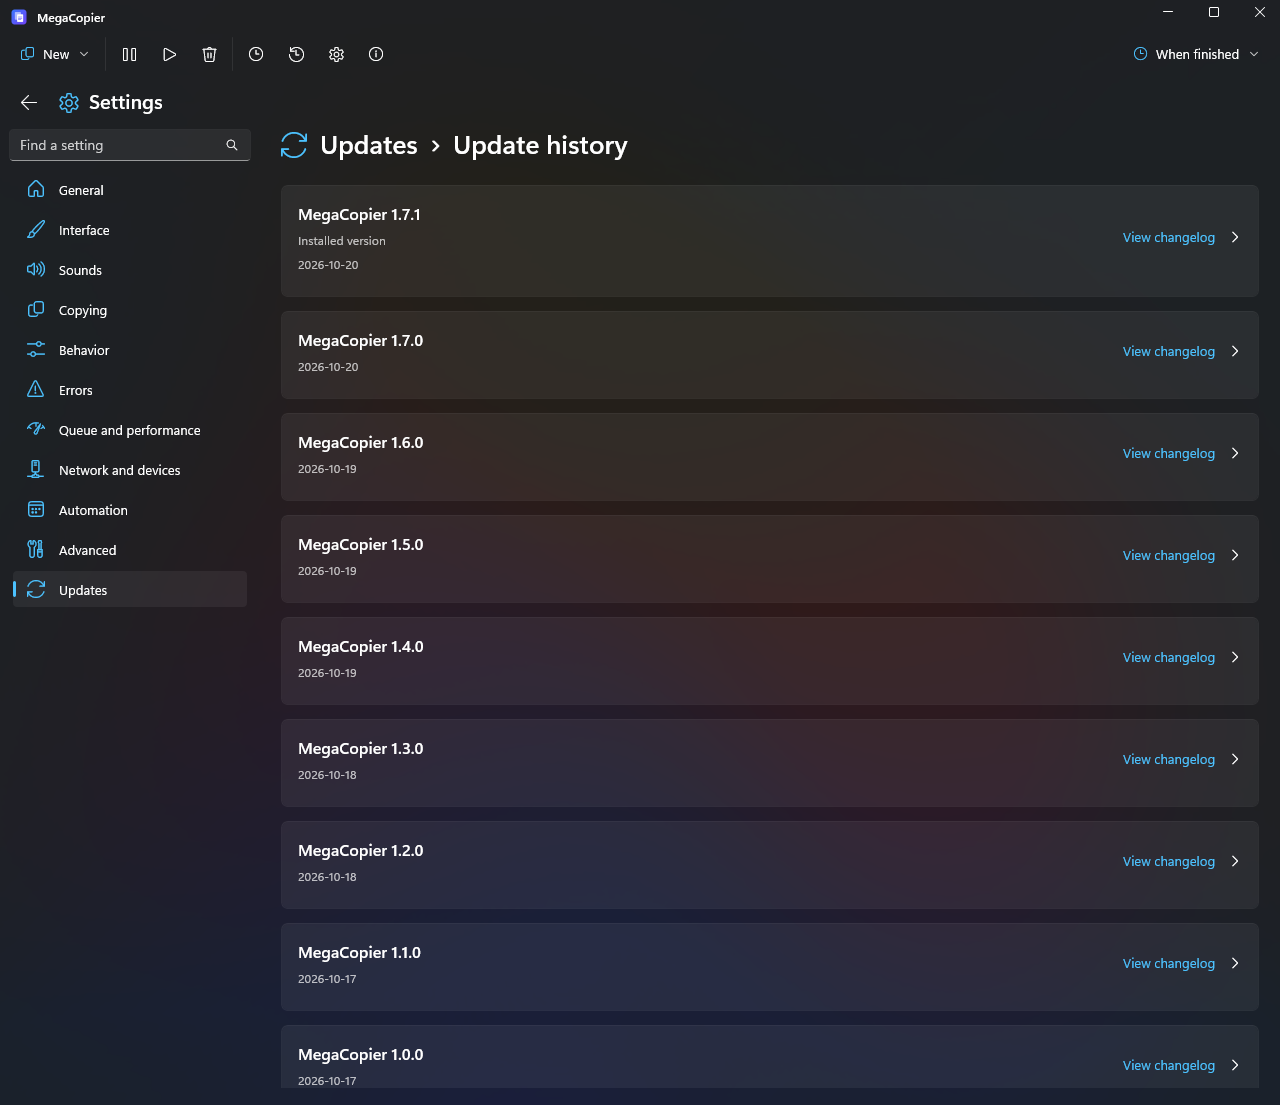
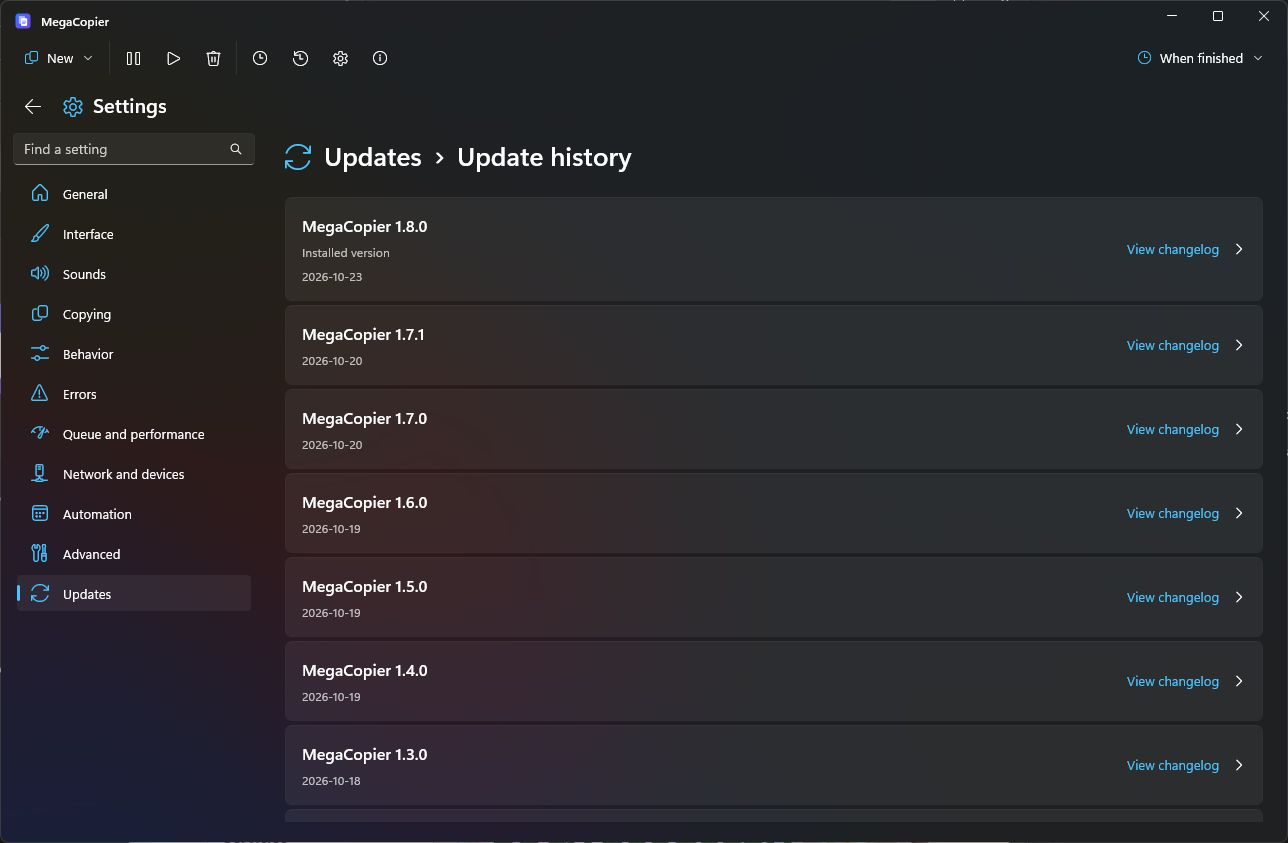
Actualiza portadas y capturas bilingües para la versión 1.8.0

diff --git a/README.md b/README.md
@@ -21,7 +21,7 @@ Replace File Explorer's copy and paste. If a transfer is interrupted by a power 
 
 ### Code signing policy
 
-Updates use the project's own ECDSA key. The application to **SignPath Foundation** was submitted on October 21, 2026; approval and Authenticode certificate access remain pending. Sponsorship is not claimed as granted. See the [code-signing policy](docs/Code-signing-policy.md) and [privacy policy](docs/Privacy.md).
+Updates use the project's own ECDSA key. **SignPath Foundation** did not approve the application at this time because broader public visibility is required. The EXE and installer remain without Authenticode; the update manifest is signed with the project’s ECDSA key. See the [code-signing policy](docs/Code-signing-policy.md) and [privacy policy](docs/Privacy.md).
 
 [Features](#all-features) · [Screenshots](#screenshots) · [User guide — Spanish](docs/Guia.md) · [Changelog](CHANGELOG.en.md) · [Español](README.es.md)
 
@@ -29,7 +29,15 @@ Updates use the project's own ECDSA key. The application to **SignPath Foundatio
 
 </div>
 
-> **Development status:** `main` includes [unreleased changes](CHANGELOG.en.md#unreleased). The download above is still the latest published version, **1.7.1**, and does not contain all development features described below. Updating this repository does not publish a new installer or release.
+
+## New in 1.8.0
+
+- Updates, full bilingual release notes and version history inside Settings, plus optional automatic downloads and installation.
+- Protected folders and files in use share one administrator recovery process; exFAT USB copying is fixed. NTFS, exFAT and FAT32 copy and overwrite checks passed.
+- Ctrl+drag duplicates folders within their current location without opening Start or delaying selection in Explorer.
+- Responsive option cards, consistent settings spacing, clearer paths and smooth navigation indicators. The installer offers English or Spanish.
+
+[Full changelog with English screenshots](CHANGELOG.en.md#180---2026-10-23) · [Spanish notes and screenshots](CHANGELOG.md#180---2026-10-23)
 
 ## Why MegaCopier
 
@@ -56,13 +64,13 @@ Everything is on the [latest release page](https://github.com/cbatista96/MegaCop
 | `SHA256SUMS.txt` | SHA-256 checksums for the downloaded files. |
 
 1. Run the installer on 64-bit Windows 11. It installs for your user in `%LOCALAPPDATA%\Programs\MegaCopier`, without administrator rights.
-2. Choose optional shortcuts, Explorer integration and Windows startup. In the development installer, desktop and Start menu shortcuts are off by default; the taskbar choice prepares a shortcut for you to pin through Windows.
-3. In the development installer, automatic update checking and error reporting are selected by default and can be deselected. Automatic downloading and installation are off. Silent updates preserve your preferences.
+2. Choose optional shortcuts, Explorer integration and Windows startup. In the installer, desktop and Start menu shortcuts are off by default; the taskbar choice prepares a shortcut for you to pin through Windows.
+3. In the installer, automatic update checking and error reporting are selected by default and can be deselected. Automatic downloading and installation are off. Silent updates preserve your preferences.
 
 Current public executables and installers are **not Authenticode-signed**. Windows may display SmartScreen warnings. Check the SHA-256 checksum against `SHA256SUMS.txt` and review the [signing status](docs/Code-signing-policy.md). A certificate does not guarantee that every SmartScreen warning will disappear immediately.
 
 ```powershell
-Get-FileHash .\MegaCopier-Setup-1.7.1.exe -Algorithm SHA256
+Get-FileHash .\MegaCopier-Setup-1.8.0.exe -Algorithm SHA256
 ```
 
 **Portable:** extract the ZIP and run `MegaCopier.exe`. Its `Data` folder holds settings and pending work. Portable mode does not install Explorer integration.
@@ -91,7 +99,7 @@ mcopy backup D:\Documents F:\Backups
 
 ## Updates and release notes
 
-In the development version, **Settings > Updates** provides one fixed-size action to check, download and install, with progress and cancellation. Highlights describe the available version, or the installed version when no newer version is known. Complete notes and images open inside the application.
+**Settings > Updates** provides one fixed-size action to check, download and install, with progress and cancellation. Highlights describe the available version, or the installed version when no newer version is known. Complete notes and images open inside the application.
 
 - Automatic checking runs every **48 hours** when enabled and catches up after reconnection if overdue. Connection changes do not cause continuous version checks.
 - Automatic downloading is optional and applies to versions discovered by automatic checks. A manual check offers Download.
@@ -107,14 +115,14 @@ In the development version, **Settings > Updates** provides one fixed-size actio
 These are separate features:
 
 - **Local transfer logs and reports** record transfer results and may contain paths. They are not uploaded automatically as crash reports.
-- **Optional crash reports** contain versions, language, theme, coarse activity and filtered traces. They exclude files, file names, paths and free-form exception messages. The development installer offers reporting selected by default; portable copies start with it off. Change this in **Settings > Advanced**.
+- **Optional crash reports** contain versions, language, theme, coarse activity and filtered traces. They exclude files, file names, paths and free-form exception messages. The installer offers reporting selected by default; portable copies start with it off. Change this in **Settings > Advanced**.
 - When automatic reporting is on, authorized reports are sent in the background. When off, an unexpected-exit dialog offers a preview, one-time sending or permission for future reports. Disabling reporting removes queued local reports, not reports already received.
 - Cloudflare processes the connection IP for abuse limiting; it is excluded from the report stored in the private GitHub repository. See the [privacy policy](docs/Privacy.md) for providers, retention and deletion limits.
 - **Security vulnerabilities are not automatically detected by crash reporting.** Use the private route in [SECURITY.md](SECURITY.md) for a suspected vulnerability; do not post secrets or sensitive exploitation details in public issues.
 
 ## Screenshots
 
-Fresh captures of the current application, in English, using local demonstration files. Each example preserves its illustrated theme, icon pack and progress bar style. File names and transfer figures are illustrative; these screenshots are not performance claims. Spanish captures are available in the Spanish overview. Illustrations in historical notes show the current development interface.
+Fresh captures of the current application, in English, using local demonstration files. Each example preserves its illustrated theme, icon pack and progress bar style. File names and transfer figures are illustrative; these screenshots are not performance claims. Spanish captures are available in the Spanish overview. Illustrations in historical notes show the current application interface.
 
 <table>
 <tr>
@@ -242,7 +250,7 @@ Fresh captures of the current application, in English, using local demonstration
 
 ### Recent additions
 
-Integrated updates, optional private reports and reorganized sound controls in the development version.
+Integrated updates, optional private reports and reorganized sound controls in version 1.8.0.
 
 <table><tr><td><img src="docs/capturas/en/actualizaciones.png" alt="Update center"></td><td><img src="docs/capturas/en/sonidos.png" alt="Sound controls"></td></tr></table>
 

diff --git a/README.es.md b/README.es.md
@@ -23,7 +23,7 @@ copias de seguridad y copia a servidores, nubes y móviles.
 
 ### Code signing policy
 
-La firma de actualizaciones usa una clave ECDSA propia. La firma Authenticode con SignPath Foundation se solicitó el 21 de octubre de 2026 y está pendiente de aprobación; no se anuncia todavía como concedida. Consulta la [política de firma](docs/Code-signing-policy.md) y la [política de privacidad](docs/Privacidad.md) ([English](docs/Privacy.md)).
+La firma de actualizaciones usa una clave ECDSA propia. SignPath Foundation no aprobó la solicitud en esta ocasión por falta de visibilidad pública. El EXE y el instalador siguen sin Authenticode; el manifiesto del actualizador sí tiene firma ECDSA. Consulta la [política de firma](docs/Code-signing-policy.md) y la [política de privacidad](docs/Privacidad.md) ([English](docs/Privacy.md)).
 
 [Características](#todas-las-características) ·
 [Capturas](#capturas) ·
@@ -39,7 +39,15 @@ La firma de actualizaciones usa una clave ECDSA propia. La firma Authenticode co
 
 ---
 
-> **Estado del código:** `main` incluye cambios todavía sin publicar como versión descargable. Consulta el [resumen y registro de desarrollo](CHANGELOG.md#sin-publicar) ([English](CHANGELOG.en.md#unreleased)). La descarga sigue correspondiendo a la última versión publicada.
+
+## Novedades de 1.8.0
+
+- Actualizaciones, registro completo bilingüe e historial dentro de Ajustes, con descarga e instalación automáticas opcionales.
+- Carpetas protegidas y archivos en uso comparten una recuperación con administrador; corregida la copia a USB exFAT. Se comprobaron copias y sobrescrituras en NTFS, exFAT y FAT32.
+- Ctrl+arrastrar duplica carpetas dentro de su ubicación sin abrir Inicio ni demorar la selección en el Explorador.
+- Tarjetas adaptables, espaciado uniforme, rutas más claras e indicadores fluidos. El instalador permite elegir español o inglés.
+
+[Registro completo con capturas en español](CHANGELOG.md#180---2026-10-23) · [English notes and screenshots](CHANGELOG.en.md#180---2026-10-23)
 
 ## Por qué MegaCopier
 
@@ -78,7 +86,7 @@ Todo está en la página de la **[última versión](https://github.com/cbatista9
 > suma con la de `SHA256SUMS.txt`:
 >
 > ```powershell
-> Get-FileHash .\MegaCopier-Setup-1.0.0.exe -Algorithm SHA256
+> Get-FileHash .\MegaCopier-Setup-1.8.0.exe -Algorithm SHA256
 > ```
 
 **Versión portátil:** descomprime el ZIP y ejecuta `MegaCopier.exe`. Guarda los ajustes en la carpeta `Data` de al lado y
@@ -100,7 +108,7 @@ ajustes e historial.
 
 ## Actualizaciones e informes
 
-La versión en desarrollo busca actualizaciones cada 48 horas cuando está habilitado. Descargar e instalar son opciones independientes desactivadas por defecto; las descargas respetan Wi-Fi, cable y redes de uso medido. Las novedades usan español para la interfaz española e inglés para las demás, incluidas versiones anteriores.
+MegaCopier busca actualizaciones cada 48 horas cuando está habilitado. Descargar e instalar son opciones independientes desactivadas por defecto; las descargas respetan Wi-Fi, cable y redes de uso medido. Las novedades usan español para la interfaz española e inglés para las demás, incluidas versiones anteriores.
 
 Los informes automáticos opcionales de cierres no son el registro local de una copia ni un detector de todas las vulnerabilidades. El instalador permite elegir y Ajustes > Avanzado permite cambiarlo. Consulta [Privacidad](docs/Privacidad.md) y [Seguridad](SECURITY.es.md).
 

diff --git a/docs/Firmas.md b/docs/Firmas.md
@@ -21,7 +21,7 @@ El EXE y el instalador actuales devuelven `NotSigned` al comprobar su firma Auth
 
 [SignPath Foundation](https://signpath.org/apply) ofrece una solicitud de firma gratuita para proyectos abiertos, sujeta a aprobación. Sus [condiciones](https://signpath.org/terms) piden licencia OSI, mantenimiento, publicaciones y documentación; también verifican reputación y control del proyecto. Exigen MFA, funciones de revisión/aprobación, política de firma y privacidad, builds verificables y aprobación manual de cada release. No se debe anunciar el patrocinio como concedido antes de recibirlo. La recogida de informes debe describirse en la política de privacidad, mostrarse durante la instalación y poder desactivarse.
 
-MegaCopier dispone de repositorio público, licencia GPL v3 y publicaciones; esto permite preparar la solicitud, pero no garantiza su aceptación. El propietario confirmó sus datos y autorizó publicar únicamente la clave pública y las políticas de firma y privacidad, disponibles en el commit `704cdc1086b28c1c711aceae7650d73e79a68f5a`. Solicitud enviada el 21 de octubre de 2026 con los consentimientos autorizados. Tras resolver el propietario el CAPTCHA, SignPath confirmó «Form submitted» y «Thank you, we'll be in touch soon». La respuesta se espera en el correo confirmado para la solicitud. Esta recepción no equivale a aprobación ni a un certificado activo, y no se han concedido accesos a SignPath. La revisión de componentes distribuidos y los requisitos de cuenta deben completarse antes de activar la firma.
+MegaCopier dispone de repositorio público, licencia GPL v3 y publicaciones; esto permite preparar la solicitud, pero no garantiza su aceptación. El propietario confirmó sus datos y autorizó publicar únicamente la clave pública y las políticas de firma y privacidad, disponibles en el commit `704cdc1086b28c1c711aceae7650d73e79a68f5a`. Solicitud enviada el 21 de octubre de 2026 con los consentimientos autorizados. Tras resolver el propietario el CAPTCHA, SignPath confirmó «Form submitted» y «Thank you, we'll be in touch soon». El 22 de octubre de 2026 SignPath comunicó que no aprobaba la solicitud por falta de señales de adopción y visibilidad pública; permite volver a solicitarla cuando el proyecto tenga mayor reconocimiento. Esta recepción no equivale a aprobación ni a un certificado activo, y no se han concedido accesos a SignPath. La revisión de componentes distribuidos y los requisitos de cuenta deben completarse antes de activar la firma.
 
 ### Preparación concreta de la integración
 

diff --git a/CHANGELOG.md b/CHANGELOG.md
@@ -81,6 +81,12 @@ Las ilustraciones muestran la interfaz de desarrollo actual. Las notas en españ
 - **Historial consistente:** las tarjetas de versiones usan la misma separación que las demás y mantienen «Ver historial de cambios» y su flecha centrados verticalmente a la derecha.
 
 
+
+<img src="docs/capturas/ajustes.png" width="820" alt="Ajustes con idioma como segunda tarjeta y márgenes uniformes">
+
+<img src="docs/capturas/interfaz-iconos.png" width="820" alt="Tarjetas de Interfaz con controles alineados">
+
+
 ### Arreglado
 
 - Las cabeceras de Ajustes siguen el mismo borde que sus tarjetas al ampliar la ventana. Los iconos y rótulos del copiador comparten el centro visual en las herramientas, los estados y las unidades de origen y destino.

diff --git a/CHANGELOG.en.md b/CHANGELOG.en.md
@@ -81,6 +81,12 @@ Illustrations show the current development interface. Spanish notes use Spanish 
 - **Consistent history:** version cards use the same spacing as other cards, with “View changelog” and its arrow vertically centered on the right.
 
 
+
+<img src="docs/capturas/en/ajustes.png" width="820" alt="Settings with language as the second card and consistent margins">
+
+<img src="docs/capturas/en/interfaz-iconos.png" width="820" alt="Interface cards with aligned controls">
+
+
 ### Fixed
 
 - Settings headings follow the same edge as their cards when the window grows. Copier icons and labels share a visual center across the toolbar, status chips and source and destination drives.
